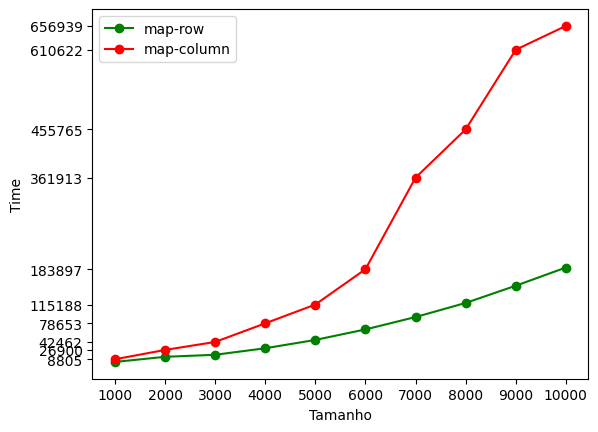
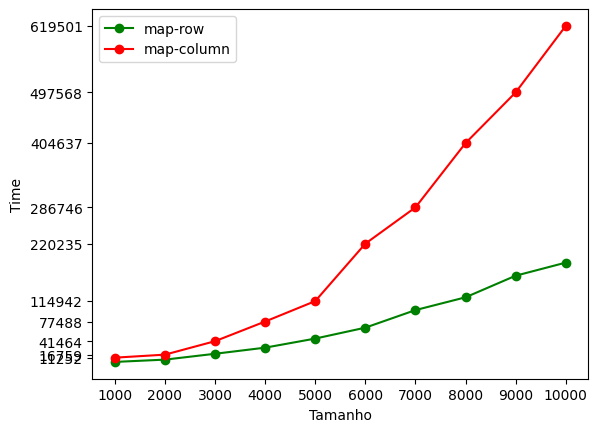
modified for-loop and add folder matrix

diff --git a/matrix/mult_block.cpp b/matrix/mult_block.cpp
@@ -10,7 +10,7 @@ using namespace std;
 
 int main(){
 
-    int _size = 10000;
+    int _size = 5000;
     int **A = new int*[_size];
     for (int i = 0; i < _size; i++) {
         A[i] = new int[_size];
@@ -26,13 +26,11 @@ int main(){
         C[i] = new int[_size];
     }
   
-    int razon = _size/10;
-    const int block = 2;
+    const int razon = _size/5;
+    const int block = 10;
     double time;
 
-    ofstream salida{"classic.txt", ios::out};
-
-    salida << "tamanho" << "\t" << "time\t" << endl;   
+    ofstream salida{"block.txt", ios::out};
 
     for(size_t lenght = razon; lenght <= _size; lenght+=razon){
 
@@ -46,8 +44,16 @@ int main(){
         time = double(chrono::duration_cast <chrono::microseconds> (end - begin).count());
 
         
-        salida << lenght << "\t" << time << " ms\t" << endl;       
+        salida << lenght << "\t" << time << " \t" << endl;       
     }
+    for(int i=0; i<_size; i++){
+        delete[] A[i];
+        delete[] B[i];
+        delete[] C[i];
+    }
+    delete[] A;
+    delete[] B;
+    delete[] C;
 
     return 0;
 }

diff --git a/matrix/classic.cpp b/matrix/classic.cpp
@@ -10,7 +10,7 @@ using namespace std;
 
 int main(){
 
-    int _size = 10000;
+    int _size = 5000;
     int **A = new int*[_size];
     for (int i = 0; i < _size; i++) {
         A[i] = new int[_size];
@@ -26,12 +26,10 @@ int main(){
         C[i] = new int[_size];
     }
   
-    int razon = _size/10;
+    const int razon = _size/5;
     double time;
 
     ofstream salida{"classic.txt", ios::out};
-
-    salida << "tamanho" << "\t" << "time\t" << endl;   
 
     for(size_t lenght = razon; lenght <= _size; lenght+=razon){
 
@@ -45,8 +43,16 @@ int main(){
         time = double(chrono::duration_cast <chrono::microseconds> (end - begin).count());
 
         
-        salida << lenght << "\t" << time << " ms\t" << endl;       
+        salida << lenght << "\t" << time << " \t" << endl;       
     }
+    for(int i=0; i<_size; i++){
+        delete[] A[i];
+        delete[] B[i];
+        delete[] C[i];
+    }
+    delete[] A;
+    delete[] B;
+    delete[] C;
 
     return 0;
 }

diff --git a/for-loop/second.cpp b/for-loop/second.cpp
@@ -41,5 +41,11 @@ int main(){
         //cout << lenght << "\t" << time << " \t" << endl;       
     }
 
+    for(int i=0; i<_size; i++){
+        delete[] arr[i];
+    }
+    delete[] arr;
+    delete[] x;
+    delete[] y;
     return 0;
 }

diff --git a/for-loop/first.cpp b/for-loop/first.cpp
@@ -41,5 +41,12 @@ int main(){
         //cout << lenght << "\t" << time << " \t" << endl;   
     }
 
+    for(int i=0; i<_size; i++){
+        delete[] arr[i];
+    }
+    delete[] arr;
+    delete[] x;
+    delete[] y;
+
     return 0;
 }
